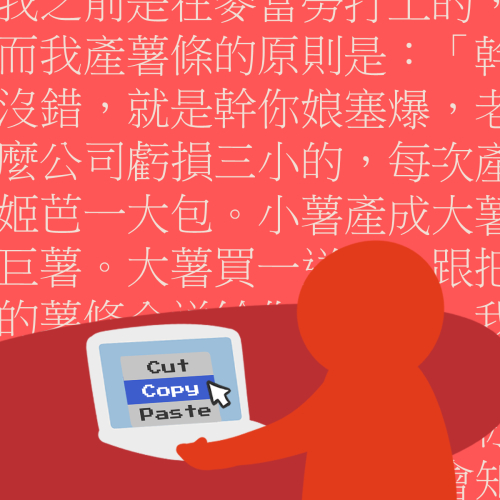
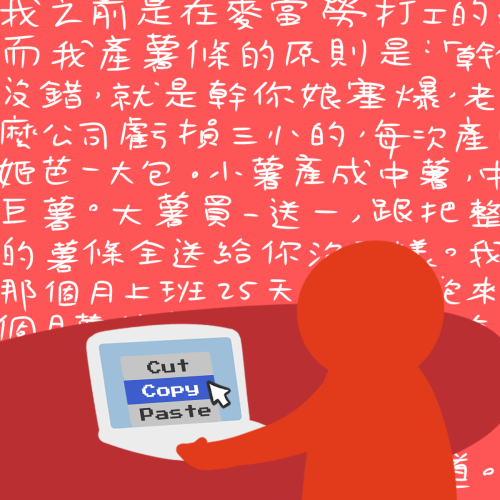
math lady and update copypasta

Changed region(s): [[0.0, 0.0, 1.0, 0.69], [0.9, 0.9, 1.0, 1.0], [0.96, 0.87, 1.0, 0.9]]

diff --git a/copy.html b/copy.html
@@ -21,7 +21,7 @@ j=d.createElement(s),dl=l!='dataLayer'?'&l='+l:'';j.async=true;j.src=
 
     <!-- OG tag for SEO -->
     <meta name="description" content="您瞧瞧，那複製文的內容雖都相同，但這篇散發著慵懶與愜意，而這一篇卻是陽光又熱情。">
-    <meta name="keywords" content="meme,迷因,cultivatememe,培養meme,科普迷因,複製文,snowclones,雪複製,成句,If Eskimos have N words for snow,Geoffrey K. Pullum,Komica,妹妹文,幹你娘塞爆,K島,PTT,joke版,雅量,背影,孔乙己,邏輯推理,咕嚕靈波,超跑情人夢,國動,集體記憶">
+    <meta name="keywords" content="meme,迷因,cultivatememe,培養meme,科普迷因,複製文,copypasta,snowclones,雪複製,成句,If Eskimos have N words for snow,Geoffrey K. Pullum,Komica,妹妹文,幹你娘塞爆,K島,PTT,joke版,雅量,背影,孔乙己,邏輯推理,咕嚕靈波,超跑情人夢,國動,集體記憶">
     <meta name="robots" content="all">
     <meta property="og:title" content="複製文 - 培養meme">
     <meta property="og:type" content="website">
@@ -47,7 +47,7 @@ j=d.createElement(s),dl=l!='dataLayer'?'&l='+l:'';j.async=true;j.src=
             ],
             "description": "您瞧瞧，那複製文的內容雖都相同，但這篇散發著慵懶與愜意，而這一篇卻是陽光又熱情。",
             "datePublished": "2020-06-26T21:11:00+08:00",
-            "dateModified": "2020-06-26T02:05:00+08:00",
+            "dateModified": "2020-06-27T16:43:00+08:00",
             "author": {
                 "@type": "Person",
                 "name": "cultivatememe"
@@ -148,20 +148,21 @@ height="0" width="0" style="display:none;visibility:hidden"></iframe></noscript>
         <p>就像「成語」一樣，是遵循前人的智慧結晶而誕生的句子，所有那些你看過的論壇、ptt用語、ACG圈流行語、影視經典句，大家常使用的話，幾乎都可以歸類到成句裡頭。有些可以像XYZ一樣更換字詞，舉幾個例子你就知道了：「道歉時露出OO是常識吧！」「我叫OO，是個OO」、「先承認OO就是你自己」、「你什麼時候產生了OOO的錯覺」、「是擅長OO的朋友呢！」、「OO，你坐啊」、「本來想大聲斥責的，但OO實在太O了」。</p>
         <p>但成句也有些會原封不動的被使用著，像是：「你渴望力量嗎？」、「計畫通」、「貧窮限制了我的想像」、「樓主好人一生平安」、「五樓請回答」、「這麼可愛一定是男孩子」、「我是說在座的各位都是垃圾」、「再啦幹」，甚至是最近從國外紅回來的「Xue Hua Piao Piao Bei Feng Xiao Xiao」，例子舉都舉不完。</p>
         <p>這些像是比較短小、比較不容易被察覺的複製文。</p>
-        <h3>K島上的複製文</h3>
-        <p>接下來要進入複製文的狹義的範疇了，在大部分的解釋中，複製文指的是通篇複製貼上或是只改幾個關鍵字的「幻想文」，這是一種發源自<span class="tooltip">Komica<span class="tooltiptext">一個日本2chan風格的貼圖討論版網站，以ACG討論為主，又稱為K島或糟糕島，沒有帳號只有ID的全匿名制，使用者會自稱為島民。</span></span>的文體，因為情節誇張離奇，有時也有色情內容，通常不會被認真對待，最著名的即為各式各樣的「妹妹文」，著名的「幹你娘塞爆」<a href="http://komicolle.org/c/12650" target="_blank">薯條打工文</a>也是出自於Komica。</p>
-        <h3>就可版上的複製文</h3>
-        <p>另一方面，PTT的joke版上也有幾名常駐的複製文預備軍，時常作為笑話的骨架被有才的鄉民神改編，最著名的便是<span class="tooltip">《雅量》<span class="tooltiptext">精選三篇：<br><a href="https://www.ptt.cc/bbs/Gossiping/M.1564206291.A.C91.html" target="_blank">Re: [問卦] 所以你們鬧夠了沒？</a><br><a href="https://www.ptt.cc/bbs/joke/M.1404812173.A.CF2.html" target="_blank">Fw: [問卦] 有沒有雅量的八卦</a><br><a href="https://www.ptt.cc/bbs/joke/M.1479667791.A.951.html" target="_blank">Fw: [問卦] 小堂弟每天被學長操到腿軟卻很爽</a></span></span>、<span class="tooltip">《背影》<span class="tooltiptext">精選兩篇：<br><a href="https://www.ptt.cc/bbs/Gossiping/M.1564210293.A.EF6.html" target="_blank">Re: [問卦] 所以你們鬧夠了沒？</a><br><a href="https://www.ptt.cc/bbs/joke/M.1406552933.A.97B.html" target="_blank">Fw: [新聞] 超越連戰　連勝文的壽司便當一客638元</a></span></span>、《出師表》，還有近年大受歡迎的<span class="tooltip">《孔乙己》<span class="tooltiptext">精選兩篇：<br><a href="https://www.dcard.tw/f/funny/p/231242944" target="_blank">韓乙己2</a>、<a href="https://www.ptt.cc/bbs/joke/M.1521094064.A.488.html" target="_blank">新乙己</a></span></span>，都是能屈能伸的好文，去年版上的「<span class="tooltip">邏輯XX<span class="tooltiptext"><a href="https://www.ptt.cc/bbs/joke/M.1570671471.A.29E.html" target="_blank">原版</a>，精選五篇：<br><a href="https://www.ptt.cc/bbs/joke/M.1570685818.A.BD5.html" target="_blank">Re: [耍冷] 邏輯炸彈</a><br><a href="https://www.ptt.cc/bbs/joke/M.1571429861.A.CF6.html" target="_blank">[ＸＤ] 邏輯中國</a><br><a href="https://www.ptt.cc/bbs/joke/M.1571768386.A.EDB.html" target="_blank">[ＸＤ] 邏輯比賽</a><br><a href="https://www.ptt.cc/bbs/joke/M.1571918427.A.2E8.html" target="_blank">[ＸＤ] 邏輯鄰居</a><br><a href="https://www.ptt.cc/bbs/joke/M.1570725766.A.4FC.html" target="_blank">[ＸＤ] 邏輯怪</a></span></span>」比賽也能見識到各方高手的才華。</p>
-        <h3>聊天室的複製文</h3>
-        <p>接下來這種複製文，是打從有聊天室或實況以來就一直有的長青現象。人們會在留言區重複貼上相同的留言洗版，有些是與遊戲相關的短句（常搭配顏文字），例如：召喚南瓜王～～ (ﾉﾟдﾟ)ﾉ、恭迎慈孤觀音⎝༼ ◕д ◕ ༽⎠、咕嚕靈波（○´∀｀）ノ♡；有些則是意圖使人產生煩躁感且塞滿表情符號的戲謔文字，例如被知名實況主國動一捧而紅還成為雄中畢業歌的<span class="tooltip">《超跑情人夢》<span class="tooltiptext">因實況主國動常將該曲作為實況的BGM，故成名。複製文全文如下：轟隆隆隆🤣🤣隆隆隆隆衝衝衝衝😏😏😏拉風😎😎😎引擎發動🔑🔑🔑引擎發動+🚗+👉+🚗風 💨💨 吹動每一個毛孔👩🦲🧔 我是今夜🌙🌙 最😎 稀有的品種🤓🤓 讓😯 看到的人以為是夢😱😱 還沒醒來😴😴 就已經無影無蹤👻👻 風 💨💨 敲醒每一個面孔😲😲 我是明天🤙🤙 被 贊嘆的驚悚😵😵 讓😨😨 看到的人全部感動😭😭 0⃣到💯K only 4⃣秒鐘😏😏紅燈停 綠燈行🚥🚥 看到行人要當心🚶♀🚶♀ 快車道 慢車道😈😈 平安回家才是王道 💪💪 開車🚗🚗不是騎車🏍🏍不怕沒戴安全帽👲👲只怕警察👮♂👮♂BI BI BI 叫我路邊靠 😩😩 BI BI BI BI BI 大燈忘了開😏😏 BI BI BI BI BI 駕照沒有帶 🤫🤫 BI BI BI BI BI 偷偷講電話😎😎 BI BI BI BI BI 沒繫安全帶 😬😬 我的夢幻車子🚗🚗就是最辣🌶🌶的美女👸👸 有她陪伴😏😏哪怕車上只有收音機 📻📻 我就像隻野狼🐺🐺身上披著羊🐑🐑的皮 我的心情🤪🤪好比開著一架戰鬥機🛩🛩</span></span>，在日本也可以看到有非常<a href="https://twitter.com/search?q=%e5%91%8a%e7%99%bd%f0%9f%92%90%f0%9f%92%8c%f0%9f%92%96" target="_blank">相似的用法</a>。</p>
         <h3>非複製文的複製文</h3>
-        <p>而有些複製文則難以辨別真假，語氣嚴肅認真而且不無可能，容易讓讀者以為是原PO的真實經歷產生誤會（但原PO或許就在期待這種誤會的產生）。近年網軍無處不在，大量假帳號的政治複製文也引起了不小的關注，譬如大選前後和前陣子FB上的「30顆安眠藥之亂」，都造成不小的騷動。</p>
-        <p>有關此類的複製文辨識，大多只能多仰賴經驗。</p>
+        <p>接下來要進入複製文的狹義的範疇了，在大部分的解釋中，複製文指的是通篇複製貼上或是只改幾個關鍵字的「幻想文」，在國外被稱作「<span class="tooltip">copypasta<span class="tooltiptext">這是由「copy」和「paste」結合誕生的字，國外最經典的幻想文要屬「Navy Seal Copypasta」，是一段不知名人士吹噓自己是海豹部隊出身的威脅文字。</span></span>」。</p>
+        <p>有些複製文難以辨別真假，因為原始的複製文可能本來是真的，語氣嚴肅認真且不無可能。有心之人將這些文字在別處重新複製貼上，意圖使讀者產生錯誤回應（a.k.a.釣魚）。</p>
+        <p>絕大多數的複製文會因為內容與上下文不連貫，或是行文風格情緒化，而在字裡行間透露出一股不知所云的氣，畢竟有時微妙到一個程度才會有潛力成為複製文。而無論是哪種複製文，辨識大多仰賴經驗。</p>
+        <h3>K島上的複製文</h3>
+        <p>以台灣的脈絡來說，複製文又特指在<span class="tooltip">Komica<span class="tooltiptext">一個日本2chan風格的貼圖討論版網站，以ACG討論為主，又稱為K島或糟糕島，沒有帳號只有ID的全匿名制，使用者會自稱為島民。</span></span>流行的複製文，因為島上的複製文風氣異常興盛。K島的複製文情節誇張離奇，有時也有色情內容，通常不會被認真對待。最著名的即為各式各樣的「妹妹文」，著名的「幹你娘塞爆」<a href="http://komicolle.org/c/12650" target="_blank">薯條打工文</a>也是出自於Komica。</p>
+        <h3>就可版上的複製文</h3>
+        <p>另一方面，PTT的joke版上也有幾名常駐的複製文預備軍，時常作為笑話的骨架被有才的鄉民神改編，最著名的便是<span class="tooltip">《雅量》<span class="tooltiptext">精選三篇：<br><a href="https://www.ptt.cc/bbs/Gossiping/M.1564206291.A.C91.html" target="_blank">Re: [問卦] 所以你們鬧夠了沒？</a><br><a href="https://www.ptt.cc/bbs/joke/M.1404812173.A.CF2.html" target="_blank">Fw: [問卦] 有沒有雅量的八卦</a><br><a href="https://www.ptt.cc/bbs/joke/M.1479667791.A.951.html" target="_blank">Fw: [問卦] 小堂弟每天被學長操到腿軟卻很爽</a></span></span>、<span class="tooltip">《背影》<span class="tooltiptext">精選兩篇：<br><a href="https://www.ptt.cc/bbs/Gossiping/M.1564210293.A.EF6.html" target="_blank">Re: [問卦] 所以你們鬧夠了沒？</a><br><a href="https://www.ptt.cc/bbs/joke/M.1406552933.A.97B.html" target="_blank">Fw: [新聞] 超越連戰　連勝文的壽司便當一客638元</a></span></span>、《出師表》，還有近年大受歡迎的<span class="tooltip">《孔乙己》<span class="tooltiptext">精選兩篇：<br><a href="https://www.dcard.tw/f/funny/p/231242944" target="_blank">韓乙己2</a>、<a href="https://www.ptt.cc/bbs/joke/M.1521094064.A.488.html" target="_blank">新乙己</a></span></span>，都是能屈能伸的好文，由骨灰級笑話改編的「<span class="tooltip">邏輯XX<span class="tooltiptext"><a href="https://www.ptt.cc/bbs/joke/M.1570671471.A.29E.html" target="_blank">原版</a>，精選五篇：<br><a href="https://www.ptt.cc/bbs/joke/M.1570685818.A.BD5.html" target="_blank">Re: [耍冷] 邏輯炸彈</a><br><a href="https://www.ptt.cc/bbs/joke/M.1571429861.A.CF6.html" target="_blank">[ＸＤ] 邏輯中國</a><br><a href="https://www.ptt.cc/bbs/joke/M.1571768386.A.EDB.html" target="_blank">[ＸＤ] 邏輯比賽</a><br><a href="https://www.ptt.cc/bbs/joke/M.1571918427.A.2E8.html" target="_blank">[ＸＤ] 邏輯鄰居</a><br><a href="https://www.ptt.cc/bbs/joke/M.1570725766.A.4FC.html" target="_blank">[ＸＤ] 邏輯怪</a></span></span>」比賽也能見識到各方高手的才華。</p>
+        <h3>聊天室的複製文</h3>
+        <p>接下來的複製文，是打從有聊天室或實況以來就一直有的長青現象。人們會在留言區重複貼上相同的留言洗版，有些是與遊戲相關的短句（常搭配顏文字），例如：召喚南瓜王～～ (ﾉﾟдﾟ)ﾉ、恭迎慈孤觀音⎝༼ ◕д ◕ ༽⎠、咕嚕靈波（○´∀｀）ノ♡；有些則是意圖使人產生煩躁感且塞滿表情符號的戲謔文字，例如被知名實況主國動一捧而紅還成為雄中畢業歌的<span class="tooltip">《超跑情人夢》<span class="tooltiptext">因實況主國動常將該曲作為實況的BGM，故成名。複製文全文如下：轟隆隆隆🤣🤣隆隆隆隆衝衝衝衝😏😏😏拉風😎😎😎引擎發動🔑🔑🔑引擎發動+🚗+👉+🚗風 💨💨 吹動每一個毛孔👩🦲🧔 我是今夜🌙🌙 最😎 稀有的品種🤓🤓 讓😯 看到的人以為是夢😱😱 還沒醒來😴😴 就已經無影無蹤👻👻 風 💨💨 敲醒每一個面孔😲😲 我是明天🤙🤙 被 贊嘆的驚悚😵😵 讓😨😨 看到的人全部感動😭😭 0⃣到💯K only 4⃣秒鐘😏😏紅燈停 綠燈行🚥🚥 看到行人要當心🚶♀🚶♀ 快車道 慢車道😈😈 平安回家才是王道 💪💪 開車🚗🚗不是騎車🏍🏍不怕沒戴安全帽👲👲只怕警察👮♂👮♂BI BI BI 叫我路邊靠 😩😩 BI BI BI BI BI 大燈忘了開😏😏 BI BI BI BI BI 駕照沒有帶 🤫🤫 BI BI BI BI BI 偷偷講電話😎😎 BI BI BI BI BI 沒繫安全帶 😬😬 我的夢幻車子🚗🚗就是最辣🌶🌶的美女👸👸 有她陪伴😏😏哪怕車上只有收音機 📻📻 我就像隻野狼🐺🐺身上披著羊🐑🐑的皮 我的心情🤪🤪好比開著一架戰鬥機🛩🛩</span></span>，在日本也可以看到有非常<a href="https://twitter.com/search?q=%e5%91%8a%e7%99%bd%f0%9f%92%90%f0%9f%92%8c%f0%9f%92%96" target="_blank">相似的用法</a>。</p>
         <h3>人類的本質是複讀機</h3>
         <p>那麼，為什麼會有Snowclones、成句和複製文的存在呢？</p>
         <p>可以把它們歸類到單純的從眾行為，人們自然而然的使用當今被大量使用的字句，久了便成自然，而且在使用的時候，既傳達了句子本身的意思，也顯示自己同意他人都認同的觀點，顯示自己是社會的一員。</p>
         <p>又或者，可以解釋為「集體記憶」在作祟，明明是網路上素未謀面的人，卻因為使用相同的句子而有一股熟悉感。因為看過同一部劇、讀過同一部漫畫，而且你看，人人都讀過《雅量》，我們對這些「關鍵字句」有著相同的感情，使用這些詞語能顯示彼此是同道中人。</p>
-        <p>也有可能是，為了在同一個社群中顯得更有刃有餘，不知不覺間學會相似的說話方式。透過交流彼此都熟悉的文體形式，進而產生某種社群的認同感，在聊天室中為了顯得有參與感更是如此。由以上理由來看，複製文現象也一點都不奇怪了。</p>
+        <p>也有可能是，為了在同一個社群中顯得更游刃有餘，不知不覺間學會相似的說話方式。透過交流彼此都熟悉的文體形式，進而產生某種社群的認同感，在聊天室中為了顯得有參與感更是如此。由以上理由來看，複製文現象也一點都不奇怪了。</p>
         <p>至於以惱人、捉弄讀者為目的的複製文，若不考慮政治陰謀論的話，恐怕只能解釋成在座各位——都是愉快犯了。(  ・ω・)ノ</p>
         <div class="fb-like" data-href="https://cultivatememe.moe/copy.html" data-layout="button_count" data-action="like" data-size="small" data-show-faces="true" data-share="true"></div>
     </article>

diff --git a/math-lady.html b/math-lady.html
@@ -1,0 +1,185 @@
+<!doctype html>
+<html>
+<head>
+<!-- Google Tag Manager -->
+<script>(function(w,d,s,l,i){w[l]=w[l]||[];w[l].push({'gtm.start':
+new Date().getTime(),event:'gtm.js'});var f=d.getElementsByTagName(s)[0],
+j=d.createElement(s),dl=l!='dataLayer'?'&l='+l:'';j.async=true;j.src=
+'https://www.googletagmanager.com/gtm.js?id='+i+dl;f.parentNode.insertBefore(j,f);
+})(window,document,'script','dataLayer','GTM-T4M7LGG');</script>
+<!-- End Google Tag Manager -->
+
+<meta charset="utf-8">
+<title>Math Lady - 培養meme</title>
+    <meta name="viewport" content="width=device-width,initial-scale=1.0">
+    <link rel="shortcut icon" href="img/page.ico">
+    <link href="css/article.css" rel="stylesheet" type="text/css">    
+    <script type="text/javascript" src="https://cdnjs.cloudflare.com/ajax/libs/jquery/3.4.1/jquery.min.js"></script>
+    <script type="text/javascript" src="js/nav.js"></script>
+    <script type="text/javascript" src="js/article.js"></script>
+    <script type="text/javascript" src="js/swiper.js"></script>
+
+    <!-- OG tag for SEO -->
+    <meta name="description" content="比眼下這個情況還複雜的，恐怕只有三角函數了。">
+    <meta name="keywords" content="meme,迷因,cultivatememe,培養meme,科普迷因,Math Lady,思考數學的女人,Confused Lady,calculating woman,Nazaré Tedesco,Senhora do Destino,reaction images,9GAG,x files">
+    <meta name="robots" content="all">
+    <meta property="og:title" content="Math Lady - 培養meme">
+    <meta property="og:type" content="website">
+    <meta property="og:url" content="https://cultivatememe.moe/math-lady.html">
+    <meta property="og:image" content="https://cultivatememe.moe/img/web_math-lady.jpg">
+    <meta property="og:description" content="比眼下這個情況還複雜的，恐怕只有三角函數了。">
+    <meta property="og:site_name" content="培養meme">
+    <meta property="fb:app_id" content="440823799787789" >
+    <!-- End of OG tag -->
+
+    <script type="application/ld+json">
+        {
+            "@context": "https://schema.org",
+            "@type": "Article",
+            "mainEntityOfPage": {
+                "@type": "WebPage",
+                "@id": "https://cultivatememe.moe/math-lady.html"
+            },
+            "headline": "Math Lady - 培養meme",
+            "image": [
+              "https://cultivatememe.moe/img/json-ld/math-lady-1x1.jpg",
+              "https://cultivatememe.moe/img/json-ld/math-lady-4x3.jpg",
+              "https://cultivatememe.moe/img/json-ld/math-lady-16x9.jpg"
+            ],
+            "description": "比眼下這個情況還複雜的，恐怕只有三角函數了。",
+            "datePublished": "2020-07-03T21:11:00+08:00",
+            "dateModified": "2020-07-03T12:19:00+08:00",
+            "author": {
+                "@type": "Person",
+                "name": "cultivatememe"
+            },
+            "publisher": {
+                "@type": "Organization",
+                "name": "Cultivatememe 培養meme",
+                "logo": {
+                    "@type": "ImageObject",
+                    "url": "https://cultivatememe.moe/img/logo.png"
+                }
+            }
+        }
+        </script>
+</head>
+
+<body>
+<!-- Google Tag Manager (noscript) -->
+<noscript><iframe src="https://www.googletagmanager.com/ns.html?id=GTM-T4M7LGG"
+height="0" width="0" style="display:none;visibility:hidden"></iframe></noscript>
+<!-- End Google Tag Manager (noscript) -->
+    <div id="fb-root"></div>
+    <script async defer crossorigin="anonymous" src="https://connect.facebook.net/zh_TW/sdk.js#xfbml=1&version=v3.2&appId=440823799787789&autoLogAppEvents=1"></script>
+
+    <header>    
+        <div class="nav">
+            <button class="hamburger hamburger--elastic" type="button">
+            <span class="hamburger-box">
+            <span class="hamburger-inner"></span>
+            </span>
+            </button>    
+            <div id="menu">
+            <ul>
+                <a href="/#s1"><li id="a1"></li></a>
+                <a href="/#s2"><li id="a2"></li></a>
+                <a href="/#s3"><li id="a3"></li></a>
+                <a href="/#s4"><li id="a4"></li></a>
+                <a href="/#s5"><li id="a5"></li></a>
+                <a href="/#s6"><li id="a6"></li></a>
+                <a href="/#s7"><li id="a7"></li></a>
+            </ul>    
+            </div>
+        </div>      
+        <div id="logo">
+            <a href="/"><img src="img/logo.png"/></a>      
+        </div>
+        <a href="https://www.facebook.com/cultivatememe/" target="_blank">
+            <div class="share"></div>
+        </a> 
+</header>
+
+<section>
+    <div class="content">
+        <article>
+        <div class="title"><img src="img/P_math-lady.png" alt="math-lady"></div>
+        <p class="centerline">比眼下這個情況還複雜的，恐怕只有三角函數了。</p>
+        <!-- Swiper -->
+        <div class="swiper-container">
+            <div class="swiper-wrapper">
+                <div class="swiper-slide">
+                    <img src="img/article/math-lady-1.gif" alt="math-lady">
+                    <a href="https://giphy.com/gifs/math-lady-meme-WRQBXSCnEFJIuxktnw" target="_blank">                        
+                    <p class="imgtext">GIPHY</p></a>
+                </div>
+                <div class="swiper-slide">
+                    <iframe src="https://www.youtube.com/embed/m7QA0ogagEc" frameborder="0" allow="accelerometer; autoplay; encrypted-media; gyroscope; picture-in-picture" allowfullscreen></iframe>
+                </div>
+                <div class="swiper-slide">
+                    <img src="img/article/math-lady-4.jpg" alt="math-lady">
+                    <a href="https://9gag.com/gag/a25ZDYw" target="_blank">                        
+                    <p class="imgtext">9GAG</p></a>
+                </div>
+                <div class="swiper-slide">
+                    <img src="img/article/math-lady-2.jpg" alt="math-lady">
+                    <a href="https://hornydragon.blogspot.com/2017/09/918.html" target="_blank">                        
+                    <p class="imgtext">好色龍的網路生活觀察日誌</p></a>
+                </div>
+                <div class="swiper-slide">
+                    <img src="img/article/math-lady-3.jpg" alt="math-lady">
+                    <a href="https://www.dcard.tw/f/mood/p/233413708" target="_blank">                        
+                    <p class="imgtext">Dcard</p></a>
+                </div>
+                <div class="swiper-slide">
+                    <img src="img/article/math-lady-5.jpg" alt="math-lady">
+                    <a href="https://sayingimages.com/math-lady-meme/" target="_blank">                        
+                    <p class="imgtext">Saying Images</p></a>
+                </div>
+                <div class="swiper-slide">
+                    <img src="img/article/math-lady-6.jpg" alt="math-lady">
+                    <a href="https://weheartit.com/entry/345369458" target="_blank">                        
+                    <p class="imgtext">we♥it</p></a>
+                </div>
+                <div class="swiper-slide">
+                    <img src="img/article/math-lady-7.gif" alt="math-lady">
+                    <a href="https://giphy.com/gifs/ryder-winona-equations-OYzMbsyjN0pa" target="_blank">                        
+                    <p class="imgtext">GIPHY</p></a>
+                </div>    
+                <div class="swiper-slide">
+                    <img src="img/article/math-lady-8.gif" alt="math-lady">
+                    <a href="https://tenor.com/view/confused-wtf-math-what-numbers-gif-14841107" target="_blank">                        
+                    <p class="imgtext">tenor</p></a>
+                </div>
+            </div>
+            <!-- Add Arrows -->
+            <div class="swiper-button-next"></div>
+            <div class="swiper-button-prev"></div>
+        </div>   
+        <h3>起源</h3>
+        <p>這個相當實用的金髮女子困惑reaction pic「Math Lady」，出自巴西2004年的<span class="tooltip">電視連續劇<span class="tooltiptext">telenovela，字源為tele和novel的詞，指的基本上就是肥皂劇八點檔。</span></span>《Senhora do Destino》（英譯《Her Own Destiny》，葡文意為命運夫人）劇中反派Nazaré Tedesco（由Renata Sorrah飾）當時正在獄中用力思考自身處境。</p>
+        <p>在劇中，Nazaré Tedesco綁架了主角兩個月大的女兒、偽造出生證明然後扶養成人，26年過去了，報應逐漸找上門……（後略），總之她就是個經典八點檔壞女人。</p>
+        <h3>散佈</h3>
+        <p>這個迷因目前所能追溯最早的源頭，是在2013年某網友所截的一張gif。2016年，Math Lady在Buzzfeed的葡萄牙文社群受到矚目，之後9GAG po了有四張截圖的模板，上頭多押上十分相稱的數學公式，讓整個情況看起來更複雜難解。</p>
+        <h3>飄在空中的數學</h3>
+        <p>當然，gif的動圖也讓這一切顯得更活潑生動(?)，Math Lady的動圖版本時常配上迷因經典配樂：X檔案主題曲，也就是時常被當作光明會BGM的<a href="https://youtu.be/NqD2ZEE0Uic" target="_blank">這首</a>。</p>
+        <p>搜尋confused math，gif圖庫也會給你一大堆結果，事實是，只要有一個困惑的主角被飄散的公式圍繞，任一張圖的效果都跟Math Lady相去不遠。由此也可以看出，Reaction pic使用數學公式來表達困惑已是約定俗成的做法，畢竟數學就是人類最大的困境R(???)。</p>
+        <div class="fb-like" data-href="https://cultivatememe.moe/math-lady.html" data-layout="button_count" data-action="like" data-size="small" data-show-faces="true" data-share="true"></div>
+    </article>
+    </div>
+</section>
+
+<aside>
+    <div class="backtolist">
+        <a href="meme.html"><img src="img/btn_backtomemes.png" alt="memes"></a>
+    </div>
+    <div class="draw"><img src="img/for_meme2.png" alt="meme"></div>
+</aside>
+
+<footer></footer>
+
+
+
+</body>
+
+</html>

diff --git a/meme.html b/meme.html
@@ -572,6 +572,17 @@ j=d.createElement(s),dl=l!='dataLayer'?'&l='+l:'';j.async=true;j.src=
     </div>
 
     <div class="meme-item">
+        <a href="math-lady.html">
+        <div class="box">
+            <div class="imgbox">
+                <img src="img/P_math-lady.jpg">
+            </div>
+            <h3>Math Lady</h3>
+        </div>
+        </a>
+    </div>
+
+    <div class="meme-item">
         <a href="weekly1.html">
         <div class="box">
             <div class="imgbox">
